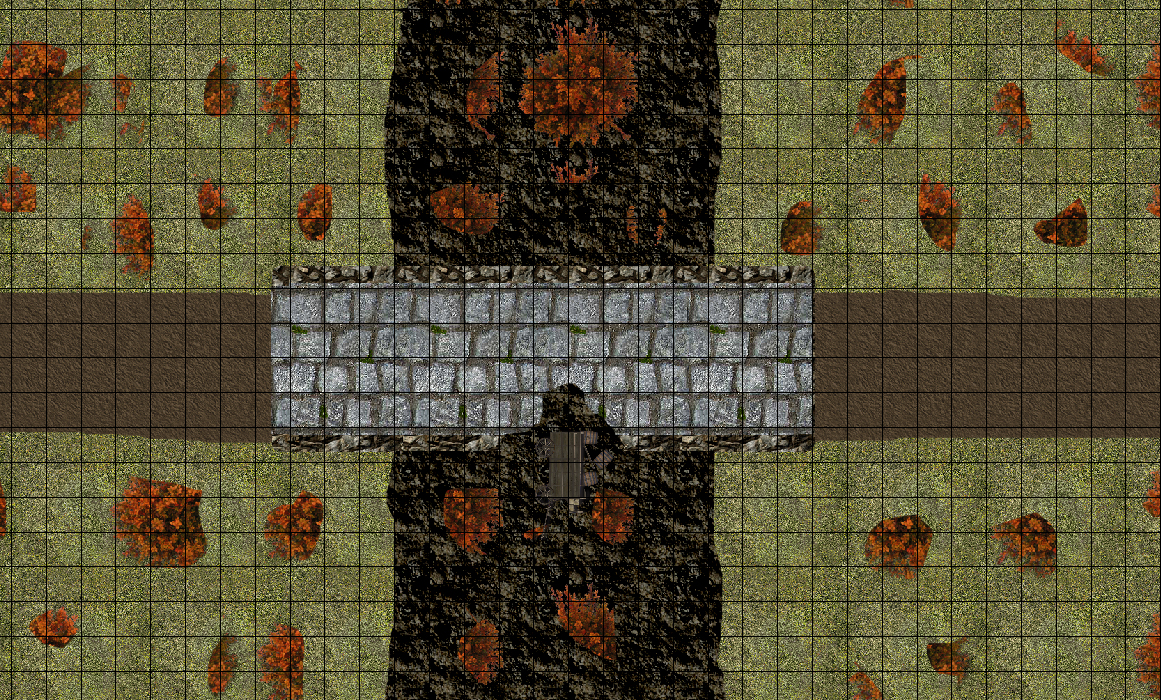
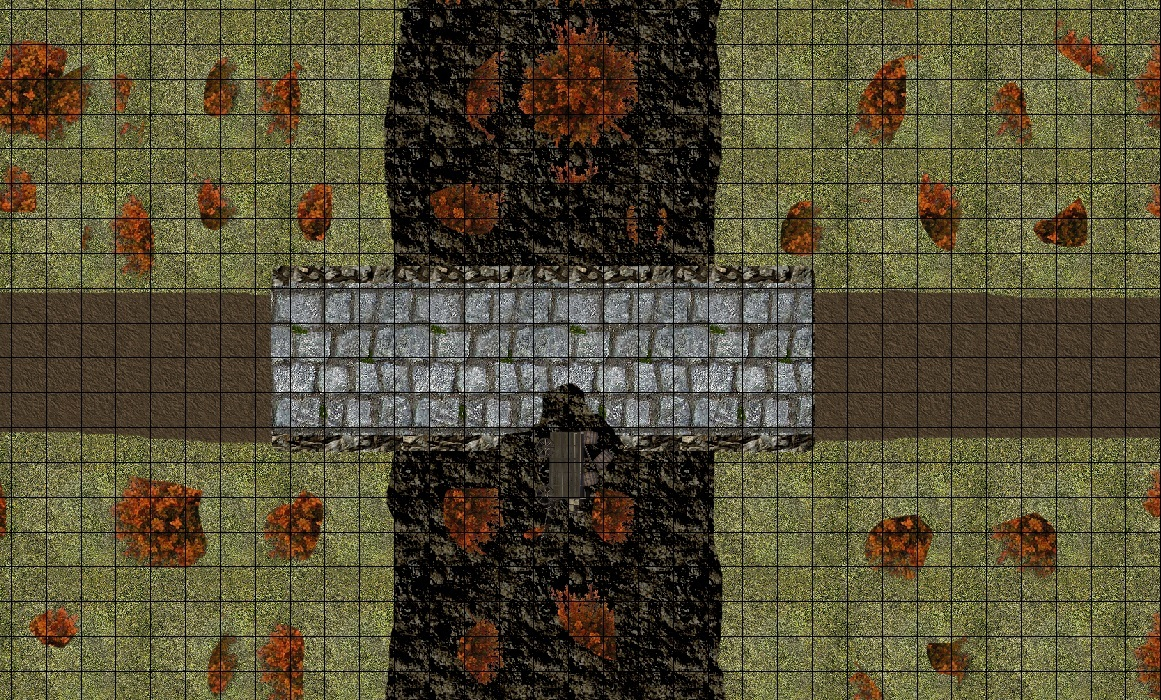
as

diff --git a/Box2d/src/main.cpp b/Box2d/src/main.cpp
@@ -1,5 +1,6 @@
 #include <SFML/Graphics.hpp>
 #include <SFML/Window.hpp>
+#include "../lib/ImageHandler.h"
 //#include <Box2D.h>
 
 
@@ -13,11 +14,14 @@ int main() {
 
 	sf::RenderWindow Game(sf::VideoMode(1161,700,32), "Ventana Negra");
 	sf::Event Event;
-	//sf::Shape box = sf::Shape::Rectangle(0,0,50,50,sf::Color(127,52,100,255));
-	//sf::Sprite sprite;
+	//sf::Shape box = sf::Shape::Rectangle(0,0,20,20,sf::Color(127,52,100,255));
+
 	sf::Sprite player, background, agente;
 	sf::Image tempImage, agenteImage;
 	sf::Image temp2;
+	//implementando el imahendler.h
+	sf::Sprite sprite = ImageHandler().LoadImage("/home/hector/git/Box2d/Box2d/imagenes/map.jpg");
+
 
 
 	float velx = 0, vely = 0, velx1 = 0, vely1 = 0;
@@ -25,9 +29,9 @@ int main() {
 	int sourceX=0, sourceY=sDown, sourceX1=0, sourceY1=sDown;
 
 
-	if (!temp2.LoadFromFile("/home/hector/git/Box2d/Box2d/imagenes/map.jpg"))
-		return EXIT_FAILURE;
-		background.SetImage(temp2);
+	//if (!temp2.LoadFromFile("/home/hector/git/Box2d/Box2d/imagenes/map.jpg"))
+	//	return EXIT_FAILURE;
+	//	background.SetImage(temp2);
 
 	if (!tempImage.LoadFromFile("/home/hector/git/Box2d/Box2d/imagenes/Player.png"))
 		return EXIT_FAILURE;
@@ -38,19 +42,15 @@ int main() {
 		agente.SetImage(agenteImage);
 
 	Game.SetFramerateLimit(27);
-	//box.SetPosition(100,100);
 
+
+	//box.SetPosition(100,100);
 //	sf::Image image;
 //	if (!image.LoadFromFile("/home/hector/workspace/Box2d/imagenes/box.png"))
 //			return EXIT_FAILURE;
 //	image.CreateMaskFromColor(sf::Color(255,25,110,255));
-
-
 	//sprite.SetImage(image);
 	//sprite.SetPosition(200,200);
-
-
-
 //	bool doSleep = true;
 //	b2Vec2 gravity(0, 9.8f);
 //	int it =10;
@@ -72,7 +72,6 @@ int main() {
 				if(Event.Type == sf::Event::Closed || Event.Key.Code == sf::Key::Escape)
 					Game.Close();
 			}
-
 //			if(Game.GetInput().IsKeyDown(sf::Key::A))
 //				box.Move(-1,0);
 //
@@ -191,6 +190,7 @@ int main() {
 
 			agente.SetSubRect(sf::IntRect(sourceX1,sourceY1,sourceX1 + agenteImage.GetWidth() /4, sourceY1 + agenteImage.GetHeight() /4));
 			agente.SetPosition(x1,y1);
+
 //			else if(Game.GetInput().IsKeyDºown(sf::Key::Right))
 //			{
 //				//sprite.Move(1,0);
@@ -205,8 +205,10 @@ int main() {
 //			else if(Game.GetInput().IsKeyDown(sf::Key::Down))
 //							sprite.Move(0,1);
 //			Game.Draw(box);
-			Game.Clear(sf::Color(36,91,100,255));
-			//Game.Draw(background);
+			//Game.Clear(sf::Color(36,91,100,255));
+
+			Game.Draw(sprite);
+
 			Game.Draw(player);
 			Game.Draw(agente);
 			//Game.Draw(sprite);

diff --git a/Box2d/lib/ImageHandler.h b/Box2d/lib/ImageHandler.h
@@ -1,0 +1,37 @@
+/*
+ * ImageHandler.h
+ *
+ *  Created on: Oct 27, 2012
+ *      Author: ndy
+ */
+
+#ifndef IMAGEHANDLER_H_
+#define IMAGEHANDLER_H_
+
+#include <SFML/Graphics.hpp>
+#include <iostream>
+
+using namespace std;
+
+class ImageHandler {
+	sf::Image image;
+	sf::Sprite sprite;
+
+public:
+
+	//virtual ~ImageHandler();
+
+
+	sf::Sprite LoadImage(string filename)
+	{
+		if (!image.LoadFromFile(filename))
+			cout << "no cargo imagen" << endl;
+
+			sprite.SetImage(image);
+
+			return sprite;
+	}
+
+};
+
+#endif /* IMAGEHANDLER_H_ */
